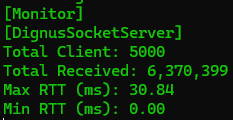
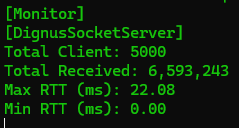
이미지 갱신

diff --git a/README.md b/README.md
@@ -45,7 +45,7 @@ https://github.com/EomTaeWook/DignusSocketServer
 | 항목 | DignusSocketServer | DotNetty | SuperSocket 2.0 |
 |:---|:---|:---|:---|
 | Total Clients | 5000 | 5000 | 5000 |
-| Total Received | 6,543,785 | 5,226,484 | 3,127,793 |
+| Total Received | 6,593,243 | 5,226,484 | 3,127,793 |
 | Max RTT (ms) | 40.56 | 136.36 | 146.61 |
 | Min RTT (ms) | 0.02 | 0.04 | 0.05 |
 
@@ -56,7 +56,7 @@ https://github.com/EomTaeWook/DignusSocketServer
 | 항목 | DignusSocketServer (초기) | DignusSocketServer (웜업 후) | DotNetty (초기) | DotNetty (웜업 후) | SuperSocket 2.0 (초기) | SuperSocket 2.0 (웜업 후) |
 |:---|:---|:---|:---|:---|:---|:---|
 | Total Clients | 5000 | 5000 | 5000 | 5000 | 5000 | 5000 |
-| Total Received | 5,984,326 | 6,543,785 | 4,946,353 | 5,226,484 | 3,170,083 | 3,127,793 |
+| Total Received | 5,984,326 | 6,593,243 | 4,946,353 | 5,226,484 | 3,170,083 | 3,127,793 |
 | Max RTT (ms) | 73.02 | 40.56 | 140.65 | 136.36 | 128.70 | 146.61 |
 | Min RTT (ms) | 0.03 | 0.02 | 0.04 | 0.04 | 0.05 | 0.05 |
 
@@ -137,7 +137,7 @@ https://github.com/EomTaeWook/DignusSocketServer
 | Item | DignusSocketServer | DotNetty | SuperSocket 2.0 |
 |:---|:---|:---|:---|
 | Total Clients | 5000 | 5000 | 5000 |
-| Total Received | 6,543,785 | 5,226,484 | 3,127,793 |
+| Total Received | 6,593,243 | 5,226,484 | 3,127,793 |
 | Max RTT (ms) | 40.56 | 136.36 | 146.61 |
 | Min RTT (ms) | 0.02 | 0.04 | 0.05 |
 
@@ -148,7 +148,7 @@ https://github.com/EomTaeWook/DignusSocketServer
 | Item | DignusSocketServer (Cold) | DignusSocketServer (Warm-up) | DotNetty (Cold) | DotNetty (Warm-up) | SuperSocket 2.0 (Cold) | SuperSocket 2.0 (Warm-up) |
 |:---|:---|:---|:---|:---|:---|:---|
 | Total Clients | 5000 | 5000 | 5000 | 5000 | 5000 | 5000 |
-| Total Received | 5,984,326 | 6,543,785 | 4,946,353 | 5,226,484 | 3,170,083 | 3,127,793 |
+| Total Received | 5,984,326 | 6,593,243 | 4,946,353 | 5,226,484 | 3,170,083 | 3,127,793 |
 | Max RTT (ms) | 73.02 | 40.56 | 140.65 | 136.36 | 128.70 | 146.61 |
 | Min RTT (ms) | 0.03 | 0.02 | 0.04 | 0.04 | 0.05 | 0.05 |
 
